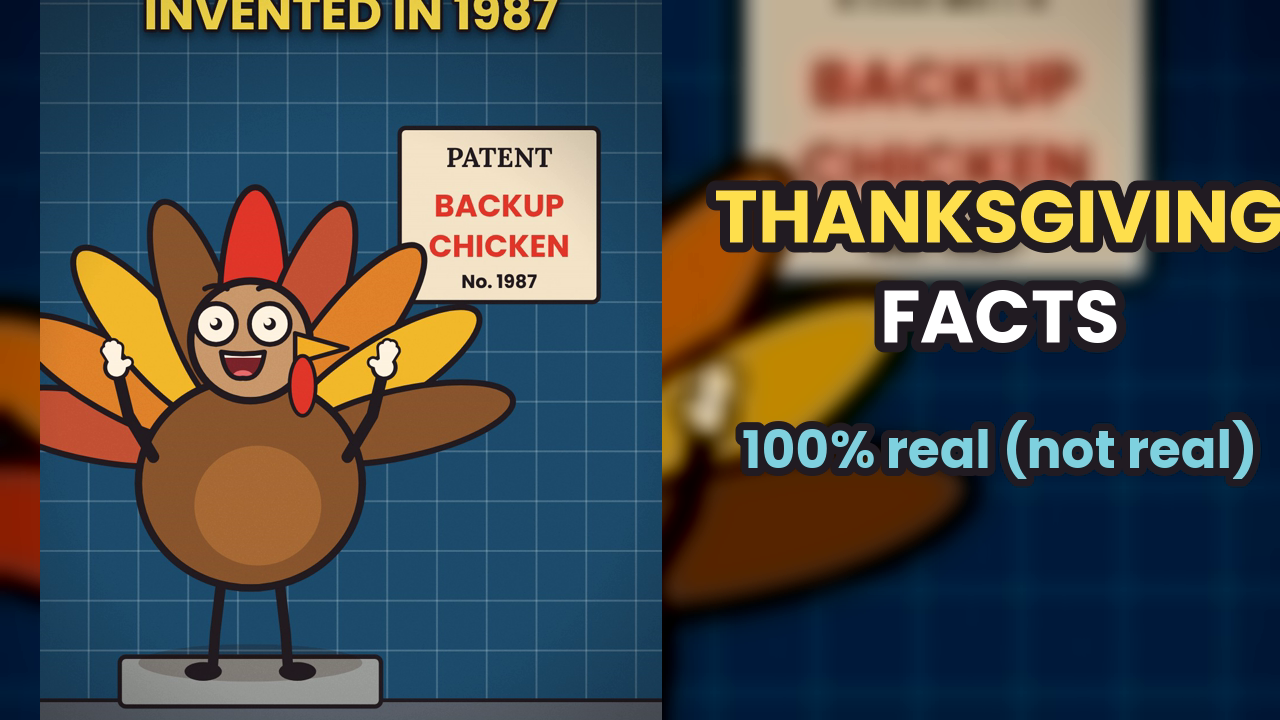
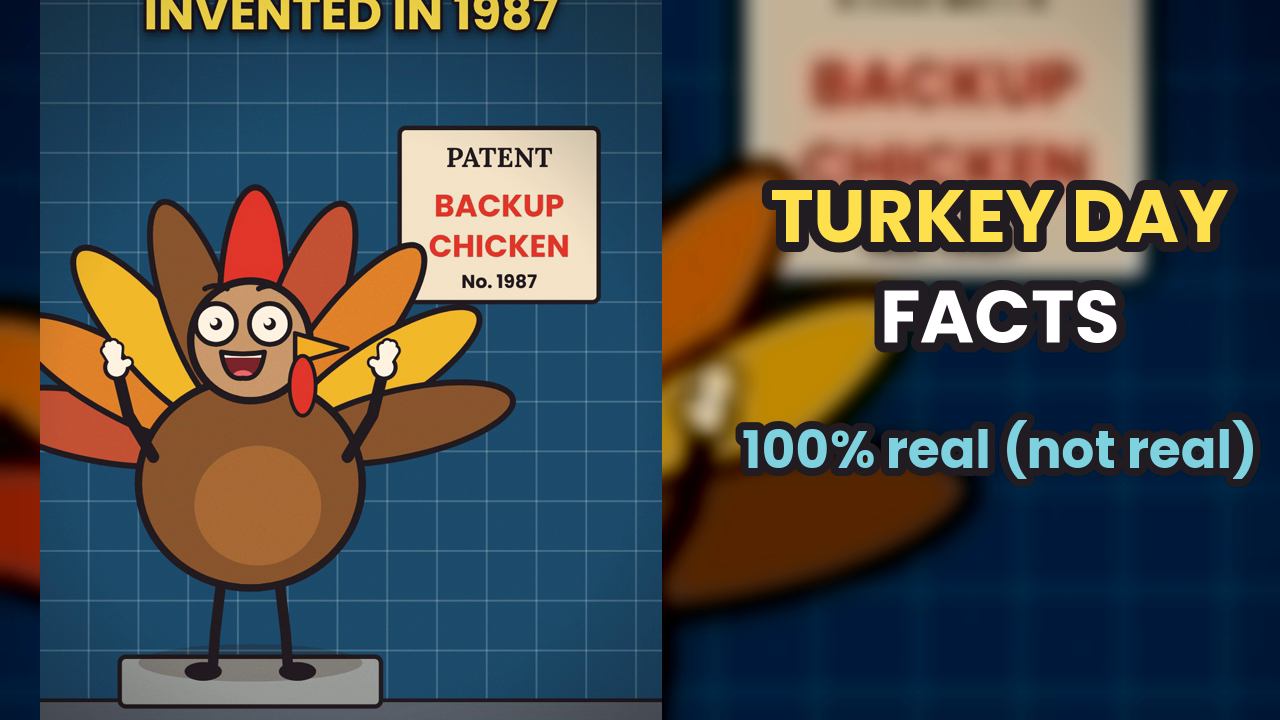
Add 100% Real Thanksgiving Facts (not real)
Claude-Session: https://claude.ai/code/session_01Uvs4qT2B8cYzFuHrPCbfLZ

Changed region(s): [[0.5312, 0.2444, 1.0, 0.3667]]

diff --git a/uploads/v15_thanksgiving_facts.md b/uploads/v15_thanksgiving_facts.md
@@ -23,7 +23,7 @@ Which fact is the MOST real? 🦃 Drop a fake Thanksgiving fact for the next one
 
 **Playlist:** Cursed Facts
 
-**Related video:** 100% Real Facts About Your Wi-Fi (not real) (uploads/v1_wifi_facts.md)
+**Related video:** 100% Real Facts About Wi-Fi (Not Real) (uploads/v1_wifi_facts.md)
 
 **Settings**
 - Audience: No, it's not made for kids
